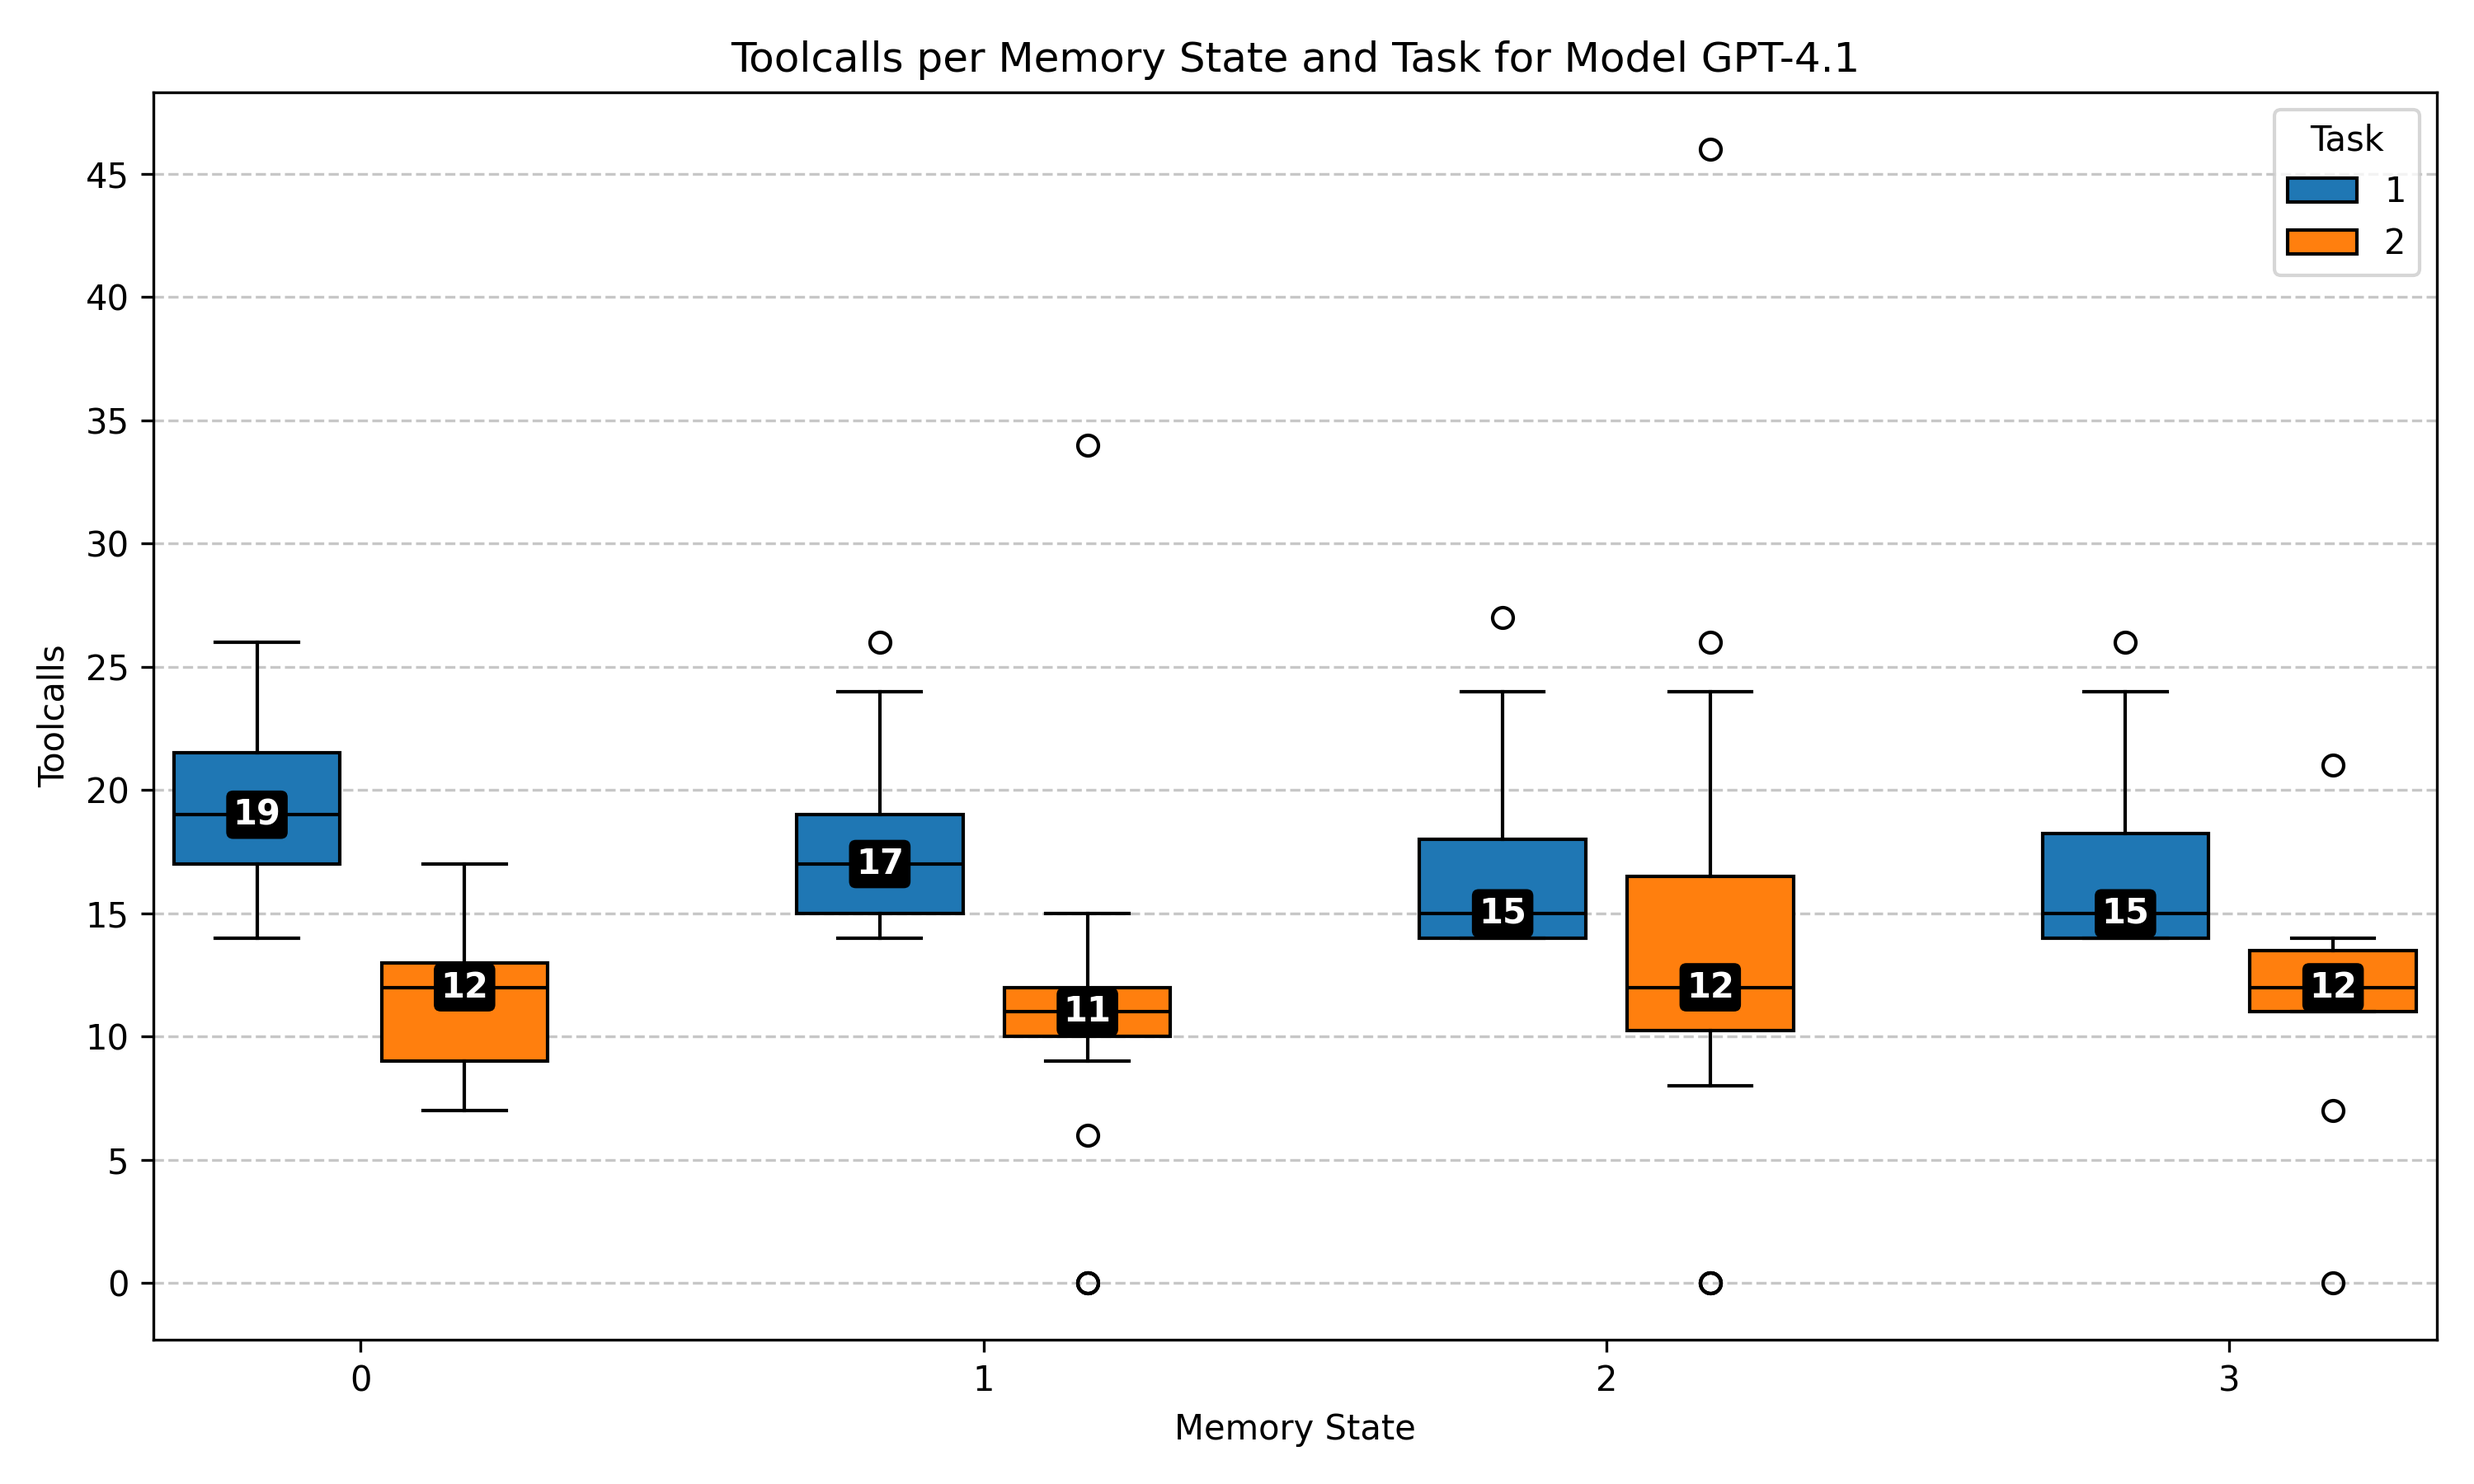
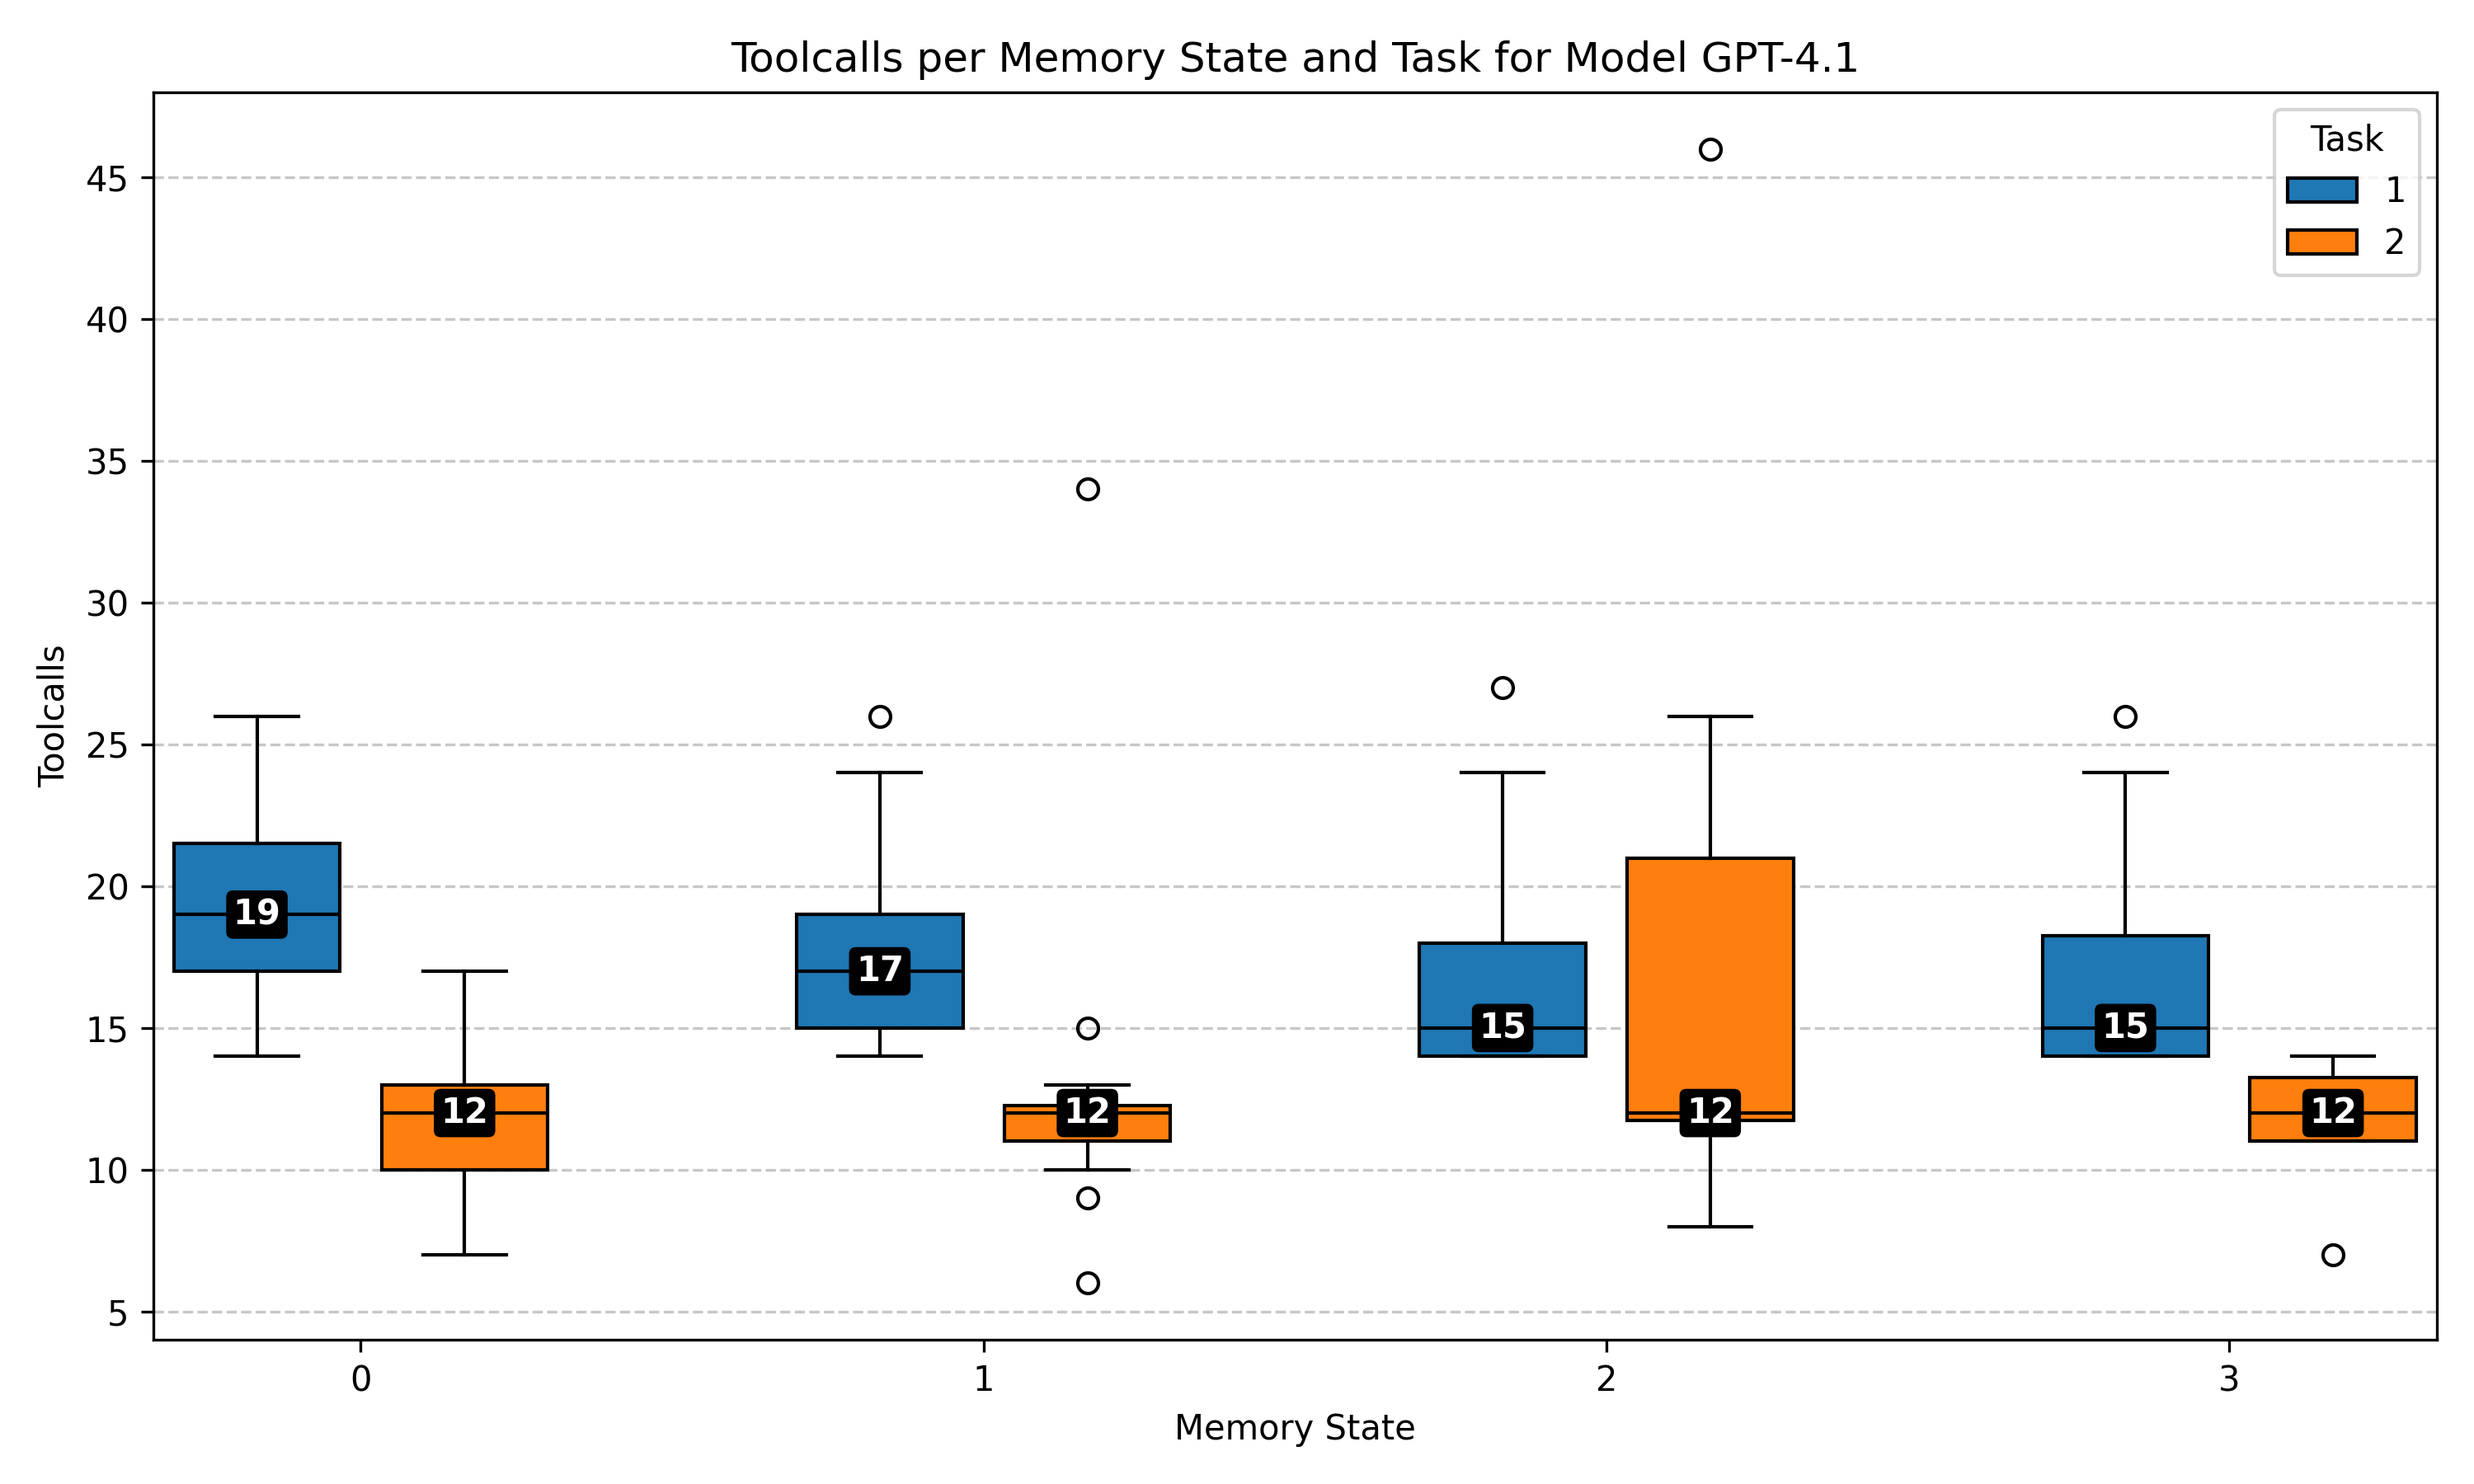
More plot fixes, filtered data and stopped plot

diff --git a/plot_results.py b/plot_results.py
@@ -25,11 +25,9 @@ model_mapping = {
     "gpt-4.1-2025-04-14": "GPT-4.1",
     "claude-sonnet-4-20250514": "Claude Sonnet",
     "gemini-2.5-pro": "Gemini 2.5 Pro",
+    "deepseek-v3.1": "DeepSeek 3.1"
 }
 df['Model'] = df['Model'].map(model_mapping)
-
-# Conditionally adjust 'Toolcalls' based on 'Stopped' column
-df.loc[(df['Stopped'] == 1) & (df['Toolcalls'] > 0), 'Toolcalls'] -= 1
 
 # ============================
 # 2. PLOTTING FUNCTIONS
@@ -70,9 +68,13 @@ def create_grouped_boxplot(model_name, model_group):
     ax.grid(axis="y", linestyle="--", alpha=0.7)
 
     ytick_step_boxplot = 5
-    ymax = model_group['Toolcalls'].max()
-    yticks = [i for i in range(0, int(ymax) + 1, ytick_step_boxplot)]
-    ax.set_yticks(yticks)
+    # Check if model_group is empty to prevent errors
+    if not model_group.empty:
+      ymax = model_group['Toolcalls'].max()
+      yticks = [i for i in range(0, int(ymax) + 1, ytick_step_boxplot)]
+      ax.set_yticks(yticks)
+    else:
+      ax.set_yticks([])
 
     memory_states = sorted(model_group['Memory'].unique())
     tasks = sorted(model_group['Task'].unique())
@@ -88,22 +90,24 @@ def create_grouped_boxplot(model_name, model_group):
             plot_data.append(data)
             x_positions.append(i * group_width + j)
 
-    bplots = ax.boxplot(plot_data, positions=x_positions, widths=0.8, patch_artist=True)
-    colors = plt.cm.tab10.colors
-    for i in range(len(plot_data)):
-        bplots['boxes'][i].set_facecolor(colors[i % num_tasks])
+    # Only create boxplot if there is data to plot
+    if plot_data and any(len(d) > 0 for d in plot_data):
+        bplots = ax.boxplot(plot_data, positions=x_positions, widths=0.8, patch_artist=True)
+        colors = plt.cm.tab10.colors
+        for i in range(len(plot_data)):
+            bplots['boxes'][i].set_facecolor(colors[i % num_tasks])
 
-    for median in bplots['medians']:
-        median.set_color('black')
+        for median in bplots['medians']:
+            median.set_color('black')
 
-    for i, median in enumerate(bplots['medians']):
-        x_pos = x_positions[i]
-        y_pos = median.get_ydata()[0]
-        ax.text(x_pos, y_pos, f"{y_pos:.0f}",
-                ha='center', va='center', fontsize=10, color='white',
-                fontweight='bold', bbox=dict(facecolor='black', edgecolor='none', boxstyle='round,pad=0.2'))
+        for i, median in enumerate(bplots['medians']):
+            x_pos = x_positions[i]
+            y_pos = median.get_ydata()[0]
+            ax.text(x_pos, y_pos, f"{y_pos:.0f}",
+                    ha='center', va='center', fontsize=10, color='white',
+                    fontweight='bold', bbox=dict(facecolor='black', edgecolor='none', boxstyle='round,pad=0.2'))
 
-    ax.legend(handles=[bplots['boxes'][i] for i in range(num_tasks)], labels=tasks, title="Task")
+        ax.legend(handles=[bplots['boxes'][i] for i in range(num_tasks)], labels=tasks, title="Task")
 
     xtick_positions = [i * group_width + (num_tasks - 1) / 2 for i in range(len(memory_states))]
     ax.set_xticks(xtick_positions)
@@ -118,15 +122,26 @@ def create_violin_plot(data_df, x_col, value_col, title, filename):
     Generates and saves a violin plot to show the distribution of a variable.
     """
     plt.figure(figsize=(12, 7))
-    sns.violinplot(
-        x=x_col,
-        y=value_col,
-        hue="Task",
-        data=data_df,
-        split=True,
-        inner="quartile",
-        palette="pastel"
-    )
+    # Check if there are at least two unique hue levels to use `split`
+    if data_df['Task'].nunique() >= 2:
+      sns.violinplot(
+          x=x_col,
+          y=value_col,
+          hue="Task",
+          data=data_df,
+          split=True,
+          inner="quartile",
+          palette="pastel"
+      )
+    else:
+      sns.violinplot(
+          x=x_col,
+          y=value_col,
+          hue="Task",
+          data=data_df,
+          inner="quartile",
+          palette="pastel"
+      )
     plt.title(title)
     plt.xlabel(x_col)
     plt.ylabel(f"Distribution of {value_col}")
@@ -170,7 +185,7 @@ def create_confusion_heatmap(data_df, model_name, filename):
     row_sums = base_matrix.sum(axis=1)
     # Avoid division by zero for rows with no data by replacing sum with 1
     # where the sum is 0
-    row_sums[row_sums == 0] = 1 
+    row_sums[row_sums == 0] = 1
     normalized_matrix = base_matrix.div(row_sums, axis=0) * 100
 
     plt.figure(figsize=(8, 6))
@@ -189,6 +204,47 @@ def create_confusion_heatmap(data_df, model_name, filename):
     plt.savefig(os.path.join(plots_dir, filename), dpi=300)
     plt.close()
 
+def create_stopped_bar_plot(data_df, filename):
+    """
+    Generates a bar plot showing the percentage of stopped runs for each model, normalized to 100.
+    """
+    run_counts = data_df.groupby('Model').size().reset_index(name='Total Runs')
+    stopped_counts = data_df[data_df['Stopped'] == 1].groupby('Model').size().reset_index(name='Stopped Runs')
+
+    merged_counts = pd.merge(run_counts, stopped_counts, on='Model', how='left').fillna(0)
+    merged_counts['Non-Stopped Runs'] = merged_counts['Total Runs'] - merged_counts['Stopped Runs']
+
+    # Calculate percentages
+    merged_counts['Stopped %'] = (merged_counts['Stopped Runs'] / merged_counts['Total Runs']) * 100
+    merged_counts['Non-Stopped %'] = (merged_counts['Non-Stopped Runs'] / merged_counts['Total Runs']) * 100
+
+    merged_counts_p = merged_counts.set_index('Model')
+
+    ax = merged_counts_p[['Non-Stopped %', 'Stopped %']].plot(
+        kind='bar',
+        stacked=True,
+        figsize=(10, 6),
+        color=['#4CAF50', '#FF5722'],
+        title='Proportion of Stopped Runs per Model'
+    )
+
+    plt.xlabel("Model")
+    plt.ylabel("Proportion of Runs [%]")
+    plt.xticks(rotation=45, ha='right')
+    plt.legend(title="Run Status", labels=['Success', 'Stopped'])
+    plt.grid(axis='y', linestyle='--', alpha=0.7)
+    plt.ylim(0, 110)
+
+    # Add percentage labels
+    for container in ax.containers:
+        labels = [f"{h:.1f}%" if h > 0 else "" for h in container.datavalues]
+        ax.bar_label(container, labels=labels, label_type='center', color='white', fontweight='bold')
+
+
+    plt.tight_layout()
+    plt.savefig(os.path.join(plots_dir, filename), dpi=300)
+    plt.close()
+
 
 # ============================
 # 3. MAIN EXECUTION
@@ -196,21 +252,33 @@ def create_confusion_heatmap(data_df, model_name, filename):
 def generate_all_plots(dataframe):
     print("Starting data analysis and plot generation.")
 
-    # Generate bar plots
+    # Create a filtered DataFrame excluding "Stopped" column
+    # (The confusion matrix filters internally)
+    filtered_df = dataframe[dataframe['Stopped'] != 1].copy()
+
+    # Generate the bar plot for stopped runs
+    print("Generating stopped runs bar plot.")
+    create_stopped_bar_plot(dataframe, "stopped_runs_proportion.png")
+
+    # Generate bar plots from the data
     for memory_state, mem_group in dataframe.groupby("Memory"):
-        print(f"Processing bar plots for Memory state: {memory_state}")
-        create_bar_plot(mem_group, "Accuracy", f"Mean Accuracy across Models and Tasks (Memory {memory_state})", 10, f"mean_accuracy_memory_{memory_state}.png")
+        print(f"Processing truth bar plots for Memory state: {memory_state}")
         create_bar_plot(mem_group, "Truth", f"Mean Truth across Models and Tasks (Memory {memory_state})", 10, f"mean_truth_memory_{memory_state}.png")
 
+    for memory_state, mem_group in filtered_df.groupby("Memory"):
+        print(f"Processing accuracy bar plots for Memory state: {memory_state}")
+        create_bar_plot(mem_group, "Accuracy", f"Mean Accuracy across Models and Tasks (Memory {memory_state})", 10, f"mean_accuracy_memory_{memory_state}.png")
     # Generate grouped boxplots and confusion heatmaps for each model
-    for model_name, model_group in dataframe.groupby("Model"):
+    for model_name, model_group in filtered_df.groupby("Model"):
         print(f"Generating plots for Model: {model_name}")
-        create_grouped_boxplot(model_name, model_group)
+        # Pass the filtered data for the boxplot
+        create_grouped_boxplot(model_name, model_group[model_group['Stopped'] != 1])
+        # The confusion heatmap filters the data internally
         create_confusion_heatmap(model_group, model_name, f"confusion_matrix_{model_name}.png")
 
     # Generate violin plot for each model
     print("\nGenerating violin plots for each model.")
-    for model_name, model_group in dataframe.groupby("Model"):
+    for model_name, model_group in filtered_df.groupby("Model"):
         create_violin_plot(
             model_group,
             "Memory",
